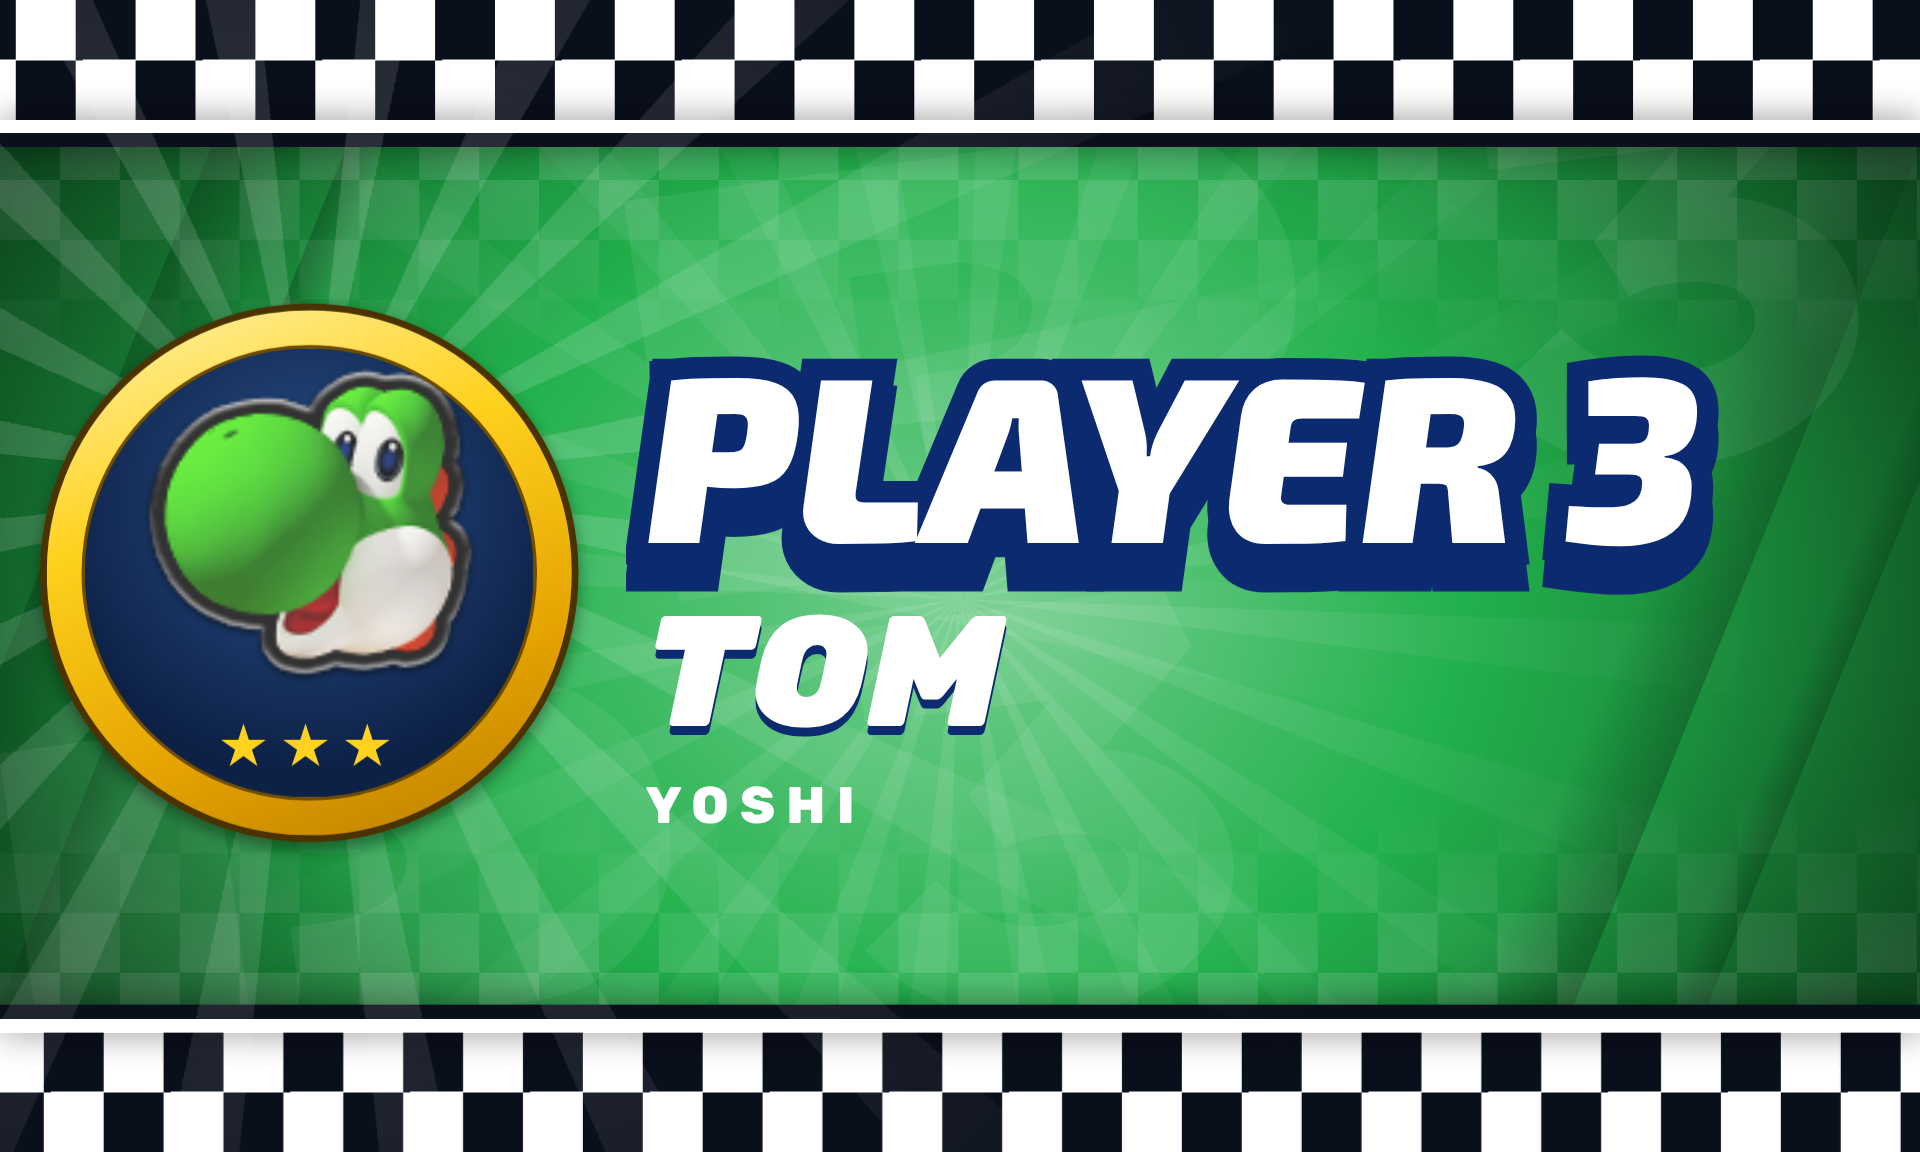
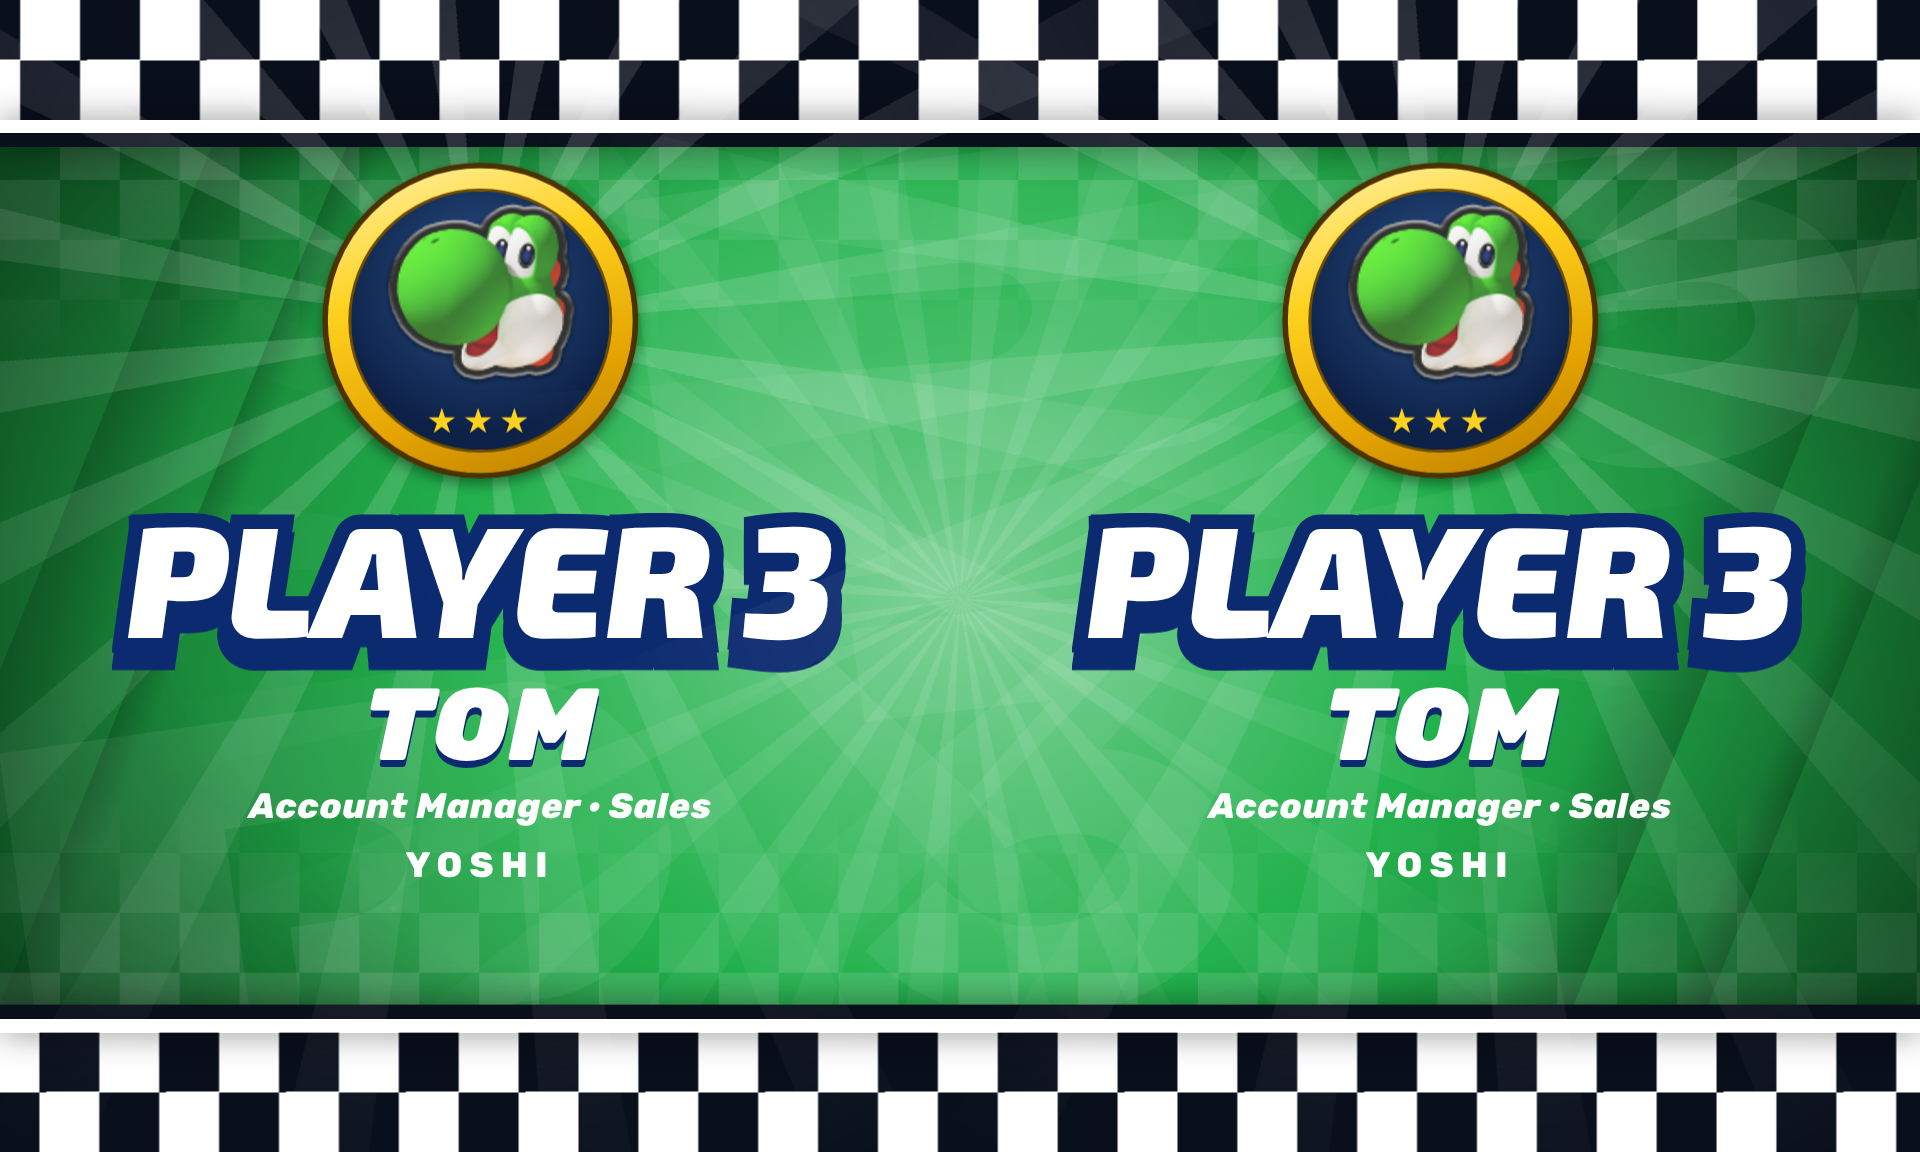
Add player subtitle (job title and group) to profile and announce mockup; drop pill
Player gets a free-text subtitle (schema default empty, so saved shows load),
exposed on PlayerView and editable in the Players card and match setup.
Announce mockup shows it under the name; twin repeats the hero per 960 half.

Claude-Session: https://claude.ai/code/session_01R22nCwsbcDxb1jCaw4VY3u

diff --git a/docs/mockups/scenes/player-announce.html b/docs/mockups/scenes/player-announce.html
@@ -11,30 +11,31 @@
   /* Player announcement = winner hero (WinHero.svelte) on background D · Player Announce.
      Same hero structure and sizes: medallion beside the text on wide (design 1640×640: medallion 480, heading 210, name 140 / max 1060,
      character 46) or stacked on hd/twin (design 900×880: medallion 340, heading 170, name 110 / max 860, character 38). The hero is uniformly scaled
-     (max 1.35×) into the area between the flag bands. Heading text is "PLAYER n". Pill is optional: ?pill=SEED%201.
+     (max 1.35×) into the area between the flag bands. Heading text is "PLAYER n". Subtitle (player profile field `subtitle`: job title · group) sits under the name; empty = hidden. ?sub=Job%20Title%20%C2%B7%20Group
      ?slot=0..3  ?colour=red|blue|…  ?format=wide|hd|twin  ?look=classic|chrome|plain */
   const HEX = { red: '#e60012', blue: '#1e6cff', green: '#22b14c', yellow: '#ffc400', pink: '#ff5fa2', orange: '#ff8a00', purple: '#8b5cf6', cyan: '#06b6d4' };
   const ART = ['mario', 'peach', 'yoshi', 'bowser'].map((n) => `../../../assets/characters/${n}.png`);
-  const DESIGN = { h: { dw: 1640, dh: 640, med: 480, head: 210, nm: 140, nmw: 1060, ch: 46, chs: 10, pts: 58, gap: 60 },
-                   v: { dw: 900,  dh: 880, med: 340, head: 170, nm: 110, nmw: 860,  ch: 38, chs: 8,  pts: 50, gap: 6 } };
+  const DESIGN = { h: { dw: 1640, dh: 640, med: 480, head: 210, nm: 140, nmw: 1060, ch: 46, chs: 10, sub: 44, gap: 60 },
+                   v: { dw: 900,  dh: 880, med: 340, head: 170, nm: 110, nmw: 860,  ch: 38, chs: 8,  sub: 38, gap: 6 } };
   const format = MK.param('format', 'wide');
   MK.page(format, (f, S) => {
     const slot = +MK.param('slot', 0), p = Object.assign({}, S.players[slot], { art: ART[slot] });
     const c = MK.param('colour', ''); if (HEX[c]) { p.colour = HEX[c]; p.text = (c === 'yellow' || c === 'cyan') ? '#14213d' : '#ffffff'; }
-    const look = MK.param('look', 'classic'), pill = MK.param('pill', '');
+    const look = MK.param('look', 'classic'), sub = MK.param('sub', ['Race Director · Events Team', 'Lead Engineer · Platform Group', 'Account Manager · Sales', 'Head of Design · Creative Studio'][slot]);
     /* area between the flag bands (band = 2 squares + trim ≈ 12% of height each side) */
-    const band = Math.round(f.h * .052 * 2 + f.h * .024), region = { x: 40, y: band + 20, w: f.w - 80, h: f.h - 2 * band - 40 };
+    const band = Math.round(f.h * .052 * 2 + f.h * .024), region = { x: 40, y: band + 20, w: (format === 'twin' ? 960 : f.w) - 80, h: f.h - 2 * band - 40 };   /* twin: one hero per 960 half */
     const horizontal = region.w / region.h > 2.2, K = DESIGN[horizontal ? 'h' : 'v'];
     const scale = Math.min(region.w / K.dw, region.h / K.dh, 1.35);
     const left = region.x + (region.w - K.dw * scale) / 2, top = region.y + (region.h - K.dh * scale) / 2;
     const rayX = horizontal ? K.med / 2 : K.dw / 2;
-    const hero = `<div class="pa-hero${horizontal ? ' h' : ''}" data-guide="hero" style="left:${left}px;top:${top}px;width:${K.dw}px;height:${K.dh}px;transform:scale(${scale});--med:${K.med}px;--gap:${K.gap}px">
+    const heroAt = (dx) => `<div class="pa-hero${horizontal ? ' h' : ''}" data-guide="hero" style="left:${left + dx}px;top:${top}px;width:${K.dw}px;height:${K.dh}px;transform:scale(${scale});--med:${K.med}px;--gap:${K.gap}px">
       <div class="pa-hrays" style="left:${rayX}px;top:${K.med / 2}px"></div>
       <div class="pa-medal" style="width:${K.med}px;height:${K.med}px"><div class="pa-bob">${MK.medallion(p.art, 'pa-m', true).replace('class="medallion pa-m"', `class="medallion pa-m" style="--s:${K.med}px;position:relative"`)}</div></div>
       <div class="pa-txt" style="width:${horizontal ? K.nmw : K.dw}px">${MK.heading('PLAYER ' + (p.slot + 1), look, K.head)}
         <div class="pa-nm" data-fit="${K.nmw}" style="font-size:${K.nm}px;width:${K.nmw}px"><span>${MK.esc(p.name)}</span></div>
-        <div class="pa-sub"><span class="pa-ch" style="font-size:${K.ch}px;letter-spacing:${K.chs}px">${MK.esc(p.character)}</span>${pill ? `<span class="pa-pts" style="font-size:${K.pts}px">${MK.esc(pill)}</span>` : ''}</div></div></div>`;
-    return MK.bgPlayer(f, p, false) + `<div class="layer" data-layer="scene" style="z-index:5">${hero}</div>`;
+        ${sub ? `<div class="pa-job" data-fit="${K.nmw}" style="font-size:${K.sub}px;width:${K.nmw}px"><span>${MK.esc(sub)}</span></div>` : ''}
+        <div class="pa-sub"><span class="pa-ch" style="font-size:${K.ch}px;letter-spacing:${K.chs}px">${MK.esc(p.character)}</span></div></div></div>`;
+    return MK.bgPlayer(f, p, false) + `<div class="layer" data-layer="scene" style="z-index:5">${(format === 'twin' ? [0, 960] : [0]).map(heroAt).join('')}</div>`;
   }, 'Scene · Player Announce');
 </script>
 </body>

diff --git a/shared/types.ts b/shared/types.ts
@@ -11,7 +11,8 @@ export type TransitionSpeed = 'fast' | 'normal' | 'slow'
 export type TakeMode = 'cut' | 'auto'
 export interface SafeArea { top: number; right: number; bottom: number; left: number }
 export interface OutputConfig { id: string; name: string; format: OutputFormat; safeArea: SafeArea; graphicsScale: number }
-export interface Player { name: string; characterId: string; colour: ColourId }
+/** subtitle: free text under the name on the player announcement (job title and group, e.g. "Producer · Events Team"). */
+export interface Player { name: string; characterId: string; colour: ColourId; subtitle: string }
 export interface RaceState { mode: 'cup' | 'track'; cupId: string; raceIndex: 0 | 1 | 2 | 3; trackId: string; raceNo: number; raceTotal: number }
 export interface RaceResult { raceNo: number; trackId: string; positions: number[] }
 export interface EventText { preTitle: string; title: string; titleAccent: string; watermark: string; holdMessage: string }
@@ -125,7 +126,7 @@ export interface BracketSlot { player: PlayerView; total: number; winner: boolea
 export interface BracketNode { matchId: string; label: string; status: MatchStatus; live: boolean; hasResults: boolean; slots: BracketSlot[]; winner: PlayerView | null; overridden: boolean }
 export interface BracketRound { round: number; nodes: BracketNode[] }
 export interface BracketView { kind: 'bracket'; config: BracketConfig; rounds: BracketRound[]; tournamentName: string }
-export interface PlayerView { slot: number; name: string; character: string; icon: string; art: string; colour: string; textColour: string }
+export interface PlayerView { slot: number; name: string; character: string; icon: string; art: string; colour: string; textColour: string; subtitle: string }
 export interface TrackCardView { raceLabel: string; cupName: string; cupEmblem: string; trackName: string }
 export type SceneView =
   | { kind: 'title'; title: TitleView; logo: LogoMode }

diff --git a/shared/defaults.ts b/shared/defaults.ts
@@ -34,10 +34,10 @@ export function createDefaultShowData(catalog: CatalogIndex): ShowData {
       labels: { font: 'Rubik' },
     },
     players: [
-      { name: 'Player 1', characterId: 'mario', colour: 'red' },
-      { name: 'Player 2', characterId: 'luigi', colour: 'blue' },
-      { name: 'Player 3', characterId: 'peach', colour: 'green' },
-      { name: 'Player 4', characterId: 'yoshi', colour: 'yellow' },
+      { name: 'Player 1', characterId: 'mario', colour: 'red', subtitle: '' },
+      { name: 'Player 2', characterId: 'luigi', colour: 'blue', subtitle: '' },
+      { name: 'Player 3', characterId: 'peach', colour: 'green', subtitle: '' },
+      { name: 'Player 4', characterId: 'yoshi', colour: 'yellow', subtitle: '' },
     ],
     race: { mode: 'cup', cupId: 'mushroom', raceIndex: 0, trackId: catalog.cup('mushroom')?.tracks[0] ?? '', raceNo: 1, raceTotal: 4 },
     notice: { blocks: [{ align: 'center', runs: [{ text: 'NOTICE BOARD', bold: true, size: 96 }] }, { align: 'center', runs: [{ text: 'Type your announcement here' }] }] },

diff --git a/tests/shared/view.test.ts b/tests/shared/view.test.ts
@@ -45,6 +45,11 @@ describe('deriveView', () => {
     expect(v.canvas).toEqual({ w: 1920, h: 1080 })
     expect(v.headingUpright).toBe(false)
   })
+  it('player subtitle reaches the player view', () => {
+    const players = st.draft.players.map((p, i) => (i === 0 ? { ...p, subtitle: 'Producer · Events Team' } : p))
+    const v = deriveView({ ...st.draft, players }, { ...EMPTY_LAYERS, lowerThirds: { on: true, players: [0, 1] } }, hd, idx)
+    expect(v.lowerThirds.map((p) => p.subtitle)).toEqual(['Producer · Events Team', ''])
+  })
   it('unknown character never throws', () => {
     const bad = { ...st.draft, players: st.draft.players.map((p, i) => (i ? p : { ...p, characterId: 'ghost' })) }
     expect(deriveView(bad, { ...EMPTY_LAYERS, lowerThirds: { on: true, players: [0] } }, hd, idx).lowerThirds[0]).toMatchObject({ icon: '', character: '?' })

diff --git a/docs/mockups/shared/graphics.css b/docs/mockups/shared/graphics.css
@@ -268,4 +268,6 @@
 .pa-sub { margin-top: 22px; display: flex; gap: 28px; align-items: center; justify-content: center; }
 .pa-hero.h .pa-sub { justify-content: flex-start; }
 .pa-ch { font: 800 1em/1 var(--font-label); color: #fff; text-transform: uppercase; }
-.pa-pts { display: inline-block; background: var(--mk-yellow); color: var(--mk-navy); font: italic 900 1em/1 var(--font-name); padding: .25em .6em; border-radius: 12px; transform: skewX(-12deg); box-shadow: 0 8px 0 var(--mk-pill-shadow); }
+.pa-job { font: italic 800 1em/1.2 var(--font-label); color: #fff; margin-top: 6px; white-space: nowrap; overflow: hidden; text-shadow: 0 4px 0 var(--pc-d); letter-spacing: .02em; }
+.pa-hero.h .pa-job { text-align: left; } .pa-hero:not(.h) .pa-job { text-align: center; }
+.pa-job > span { display: inline-block; white-space: nowrap; }

diff --git a/shared/view.ts b/shared/view.ts
@@ -27,11 +27,11 @@ export function isSceneSupported(format: OutputFormat, scene: SceneId, part: Sce
 }
 
 function playerView(p: Player | undefined, slot: number, catalog: CatalogIndex): PlayerView {
-  if (!p) return { slot, name: '', character: '?', icon: '', art: '', colour: colourHex('red'), textColour: textOn('red') }
+  if (!p) return { slot, name: '', character: '?', icon: '', art: '', colour: colourHex('red'), textColour: textOn('red'), subtitle: '' }
   const c = catalog.character(p.characterId)
   return {
     slot, name: p.name, character: c?.name ?? '?', icon: c?.icon ?? '', art: '', // headshots only: every character shows its icon, never full-body art
-    colour: colourHex(p.colour), textColour: textOn(p.colour),
+    colour: colourHex(p.colour), textColour: textOn(p.colour), subtitle: p.subtitle ?? '',
   }
 }
 

diff --git a/web/src/control/show/PlayersCard.svelte b/web/src/control/show/PlayersCard.svelte
@@ -36,6 +36,7 @@
       <input name="name" type="text" value={p.name} disabled={!connected} maxlength="40" aria-label="Player {i + 1} name" oninput={(e) => set(i, { name: e.currentTarget.value })} />
       <CharacterSelect value={p.characterId} {catalog} disabled={!connected} onchange={(id) => set(i, { characterId: id })} />
       <ColourSelect value={p.colour} disabled={!connected} onchange={(c) => set(i, { colour: c })} />
+      <input class="sub" name="subtitle" type="text" value={p.subtitle ?? ''} disabled={!connected} maxlength="80" placeholder="Subtitle: job title · group" aria-label="Player {i + 1} subtitle" oninput={(e) => set(i, { subtitle: e.currentTarget.value })} />
     </div>
   {/each}
   <div style="height:6px"></div>

diff --git a/web/src/control/tournament/MatchSetup.svelte b/web/src/control/tournament/MatchSetup.svelte
@@ -85,6 +85,7 @@
       <input name="name" type="text" value={p.name} disabled={!connected} maxlength="40" aria-label="Player {i + 1} name" oninput={(e) => setPlayer(i, { name: e.currentTarget.value })} />
       <CharacterSelect value={p.characterId} {catalog} disabled={!connected} onchange={(id) => setPlayer(i, { characterId: id })} />
       <ColourSelect value={p.colour} disabled={!connected} onchange={(c) => setPlayer(i, { colour: c })} />
+      <input class="sub" name="subtitle" type="text" value={p.subtitle ?? ''} disabled={!connected} maxlength="80" placeholder="Subtitle: job title · group" aria-label="Player {i + 1} subtitle" oninput={(e) => setPlayer(i, { subtitle: e.currentTarget.value })} />
     </div>
   {/each}
 

diff --git a/shared/schema.ts b/shared/schema.ts
@@ -22,7 +22,7 @@ export const outputConfigSchema: z.ZodType<OutputConfig> = z.object({
   graphicsScale: z.number().finite().positive().max(10),
 })
 
-export const playerSchema = z.object({ name: z.string().max(200), characterId: z.string(), colour: colourIdSchema })
+export const playerSchema = z.object({ name: z.string().max(200), characterId: z.string(), colour: colourIdSchema, subtitle: z.string().max(200).default('') })
 export const raceStateSchema = z.object({
   mode: z.enum(['cup', 'track']), cupId: z.string(), raceIndex: slotSchema, trackId: z.string(),
   raceNo: z.number().int().min(1).max(99).default(1), raceTotal: z.number().int().min(1).max(99).default(4),

diff --git a/web/src/control/styles.css b/web/src/control/styles.css
@@ -135,6 +135,7 @@ kbd { font: 600 10px/1 var(--ui-font); background: #1f2430; color: #cbd5e1; padd
 
 /* show tab cards */
 .prow { display: grid; grid-template-columns: 34px 1fr 190px 112px; gap: 8px; align-items: center; padding: 6px 12px; }
+.prow .sub { grid-column: 2 / -1; }
 .prow .n { text-align: center; font-weight: 700; font-size: 12px; color: #fff; padding: 5px 0; border-radius: 5px; }
 .prow input[type=text] { width: 100%; }
 .rrow { display: flex; gap: 10px; align-items: center; padding: 10px 12px; }
